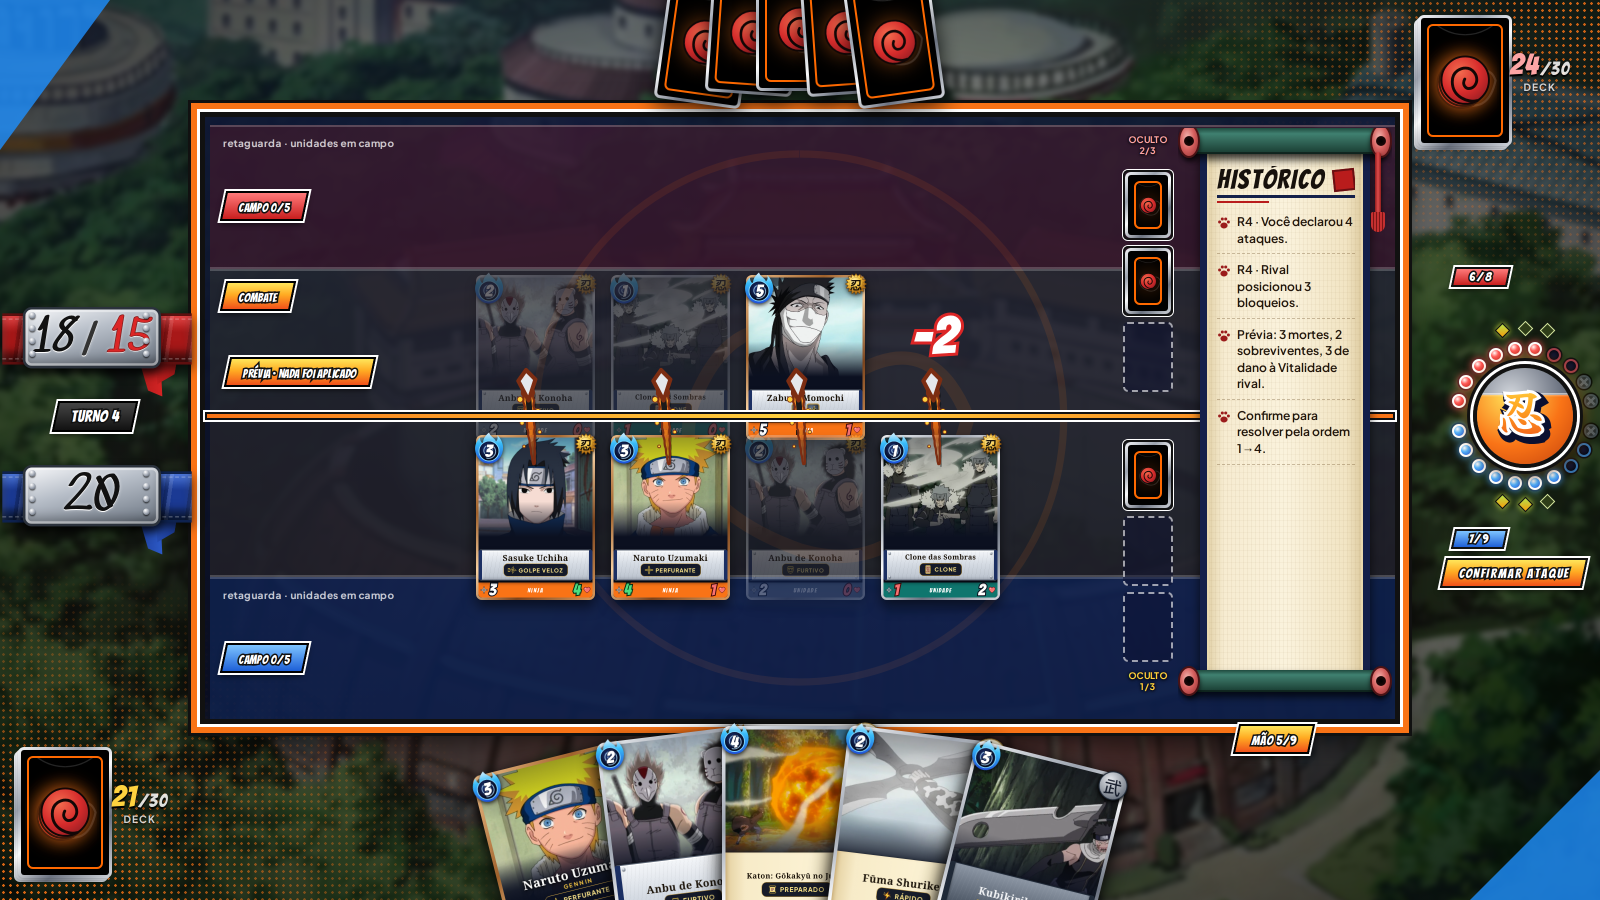
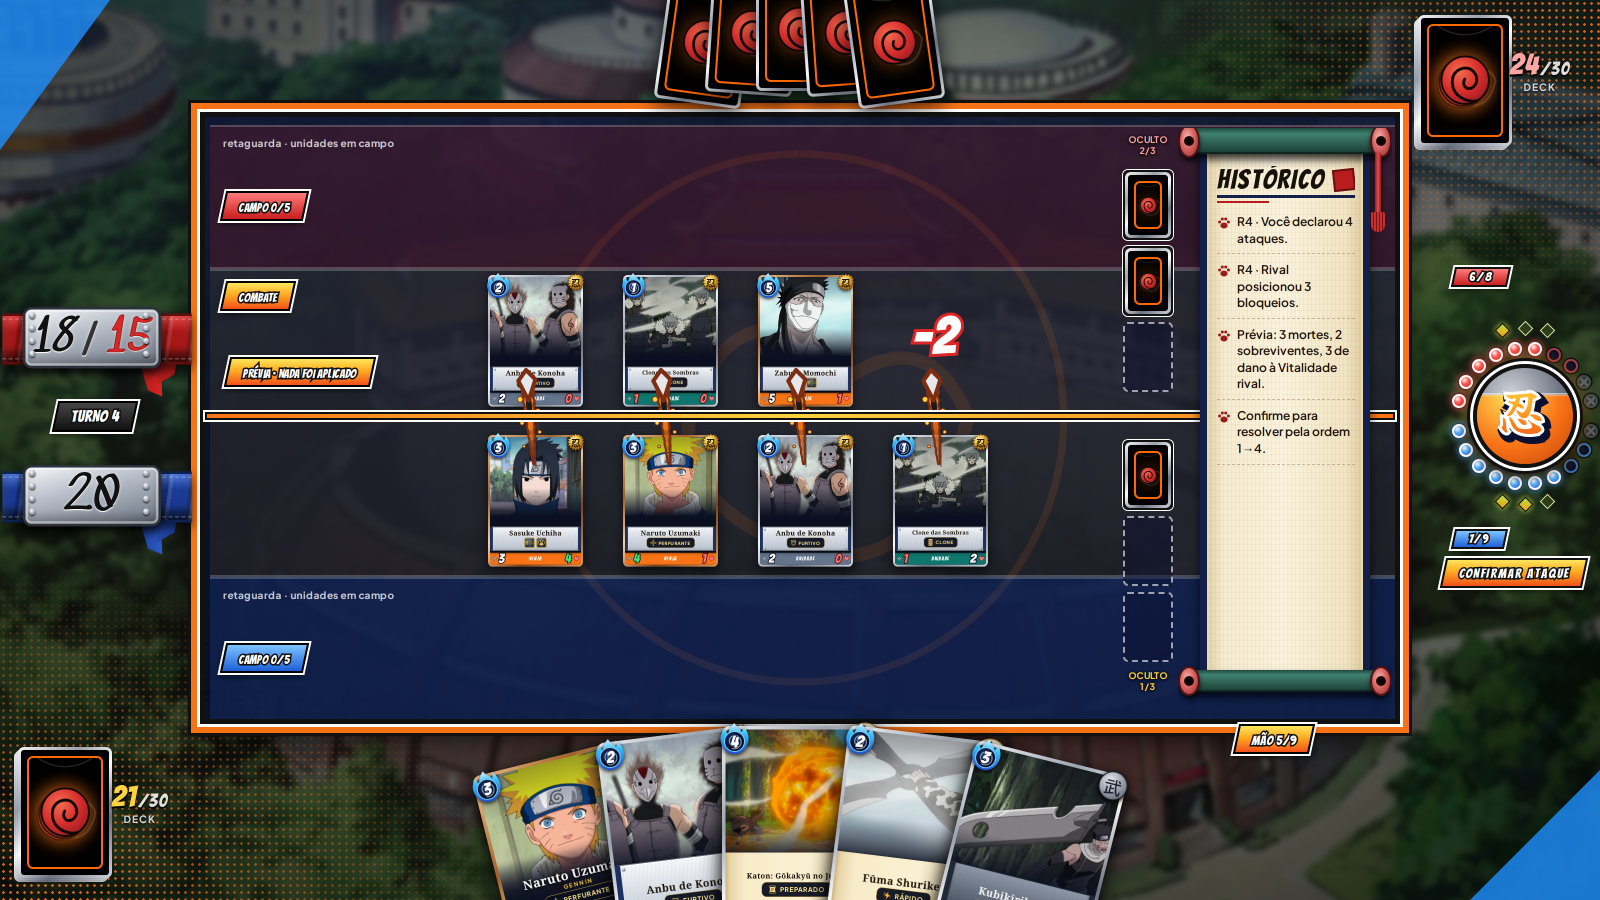
fix(B4): CardFace field idêntico ao aprovado (scale no slot)
Carta nativa 119×165 no slot 95×132 só com transform:scale uniforme;
sem dim/opacity/CSS de arena. Combate = mesmo CardFace; prévia só
nas plaquinhas. Compare vs galeria compare-final-campo.

Changed region(s): [[0.2812, 0.28, 0.625, 0.6844]]

diff --git a/src/ui/combat/ArenaFieldCard.tsx b/src/ui/combat/ArenaFieldCard.tsx
@@ -2,7 +2,8 @@ import type { CSSProperties } from 'react';
 import { CardBack } from '../../components/card/CardBack';
 import { CardFace } from '../../components/card/CardFace';
 import { compareStat, type StatColorState } from '../../components/card/theme';
-import { keywordsFromArenaLabels, resolveArenaCardDef } from './resolveArenaCard';
+import { FIELD_FACE_H, FIELD_FACE_W, SLOT_H, SLOT_SCALE, SLOT_W } from './grid';
+import { resolveArenaCardDef } from './resolveArenaCard';
 import type { ArenaCardRef } from './types';
 
 export interface ArenaFieldCardProps {
@@ -10,7 +11,7 @@ export interface ArenaFieldCardProps {
   onClick?: () => void;
   className?: string;
   style?: CSSProperties;
-  /** `field` = slot 119×165; `hand` = face de mão 156×219. */
+  /** `field` = CardFace aprovado (119×165) no slot; `hand` = mão. */
   size?: 'field' | 'hand';
 }
 
@@ -19,8 +20,9 @@ function toneToState(value: number, base: number): StatColorState {
 }
 
 /**
- * Carta da arena B4 via CardFace size="field" (PR #1) — sem FieldCard mock.
- * Prévia de combate: power/vitality + powerState/vitalityState nas plaquinhas 32px.
+ * CardFace size="field" idêntico ao aprovado (compare-final-campo).
+ * Slot B4 menor → só `transform: scale` uniforme (sem reflow/CSS de arena).
+ * Combate = mesma carta; só plaquinhas mudam na prévia.
  */
 export function ArenaFieldCard({
   card,
@@ -31,24 +33,80 @@ export function ArenaFieldCard({
 }: ArenaFieldCardProps) {
   const def = resolveArenaCardDef(card.cardId);
   const preview = card.preview;
-  const kwOverride = keywordsFromArenaLabels(card.keywords);
   const rankLevel =
     card.rank === 'jounnin' ? 3 : card.rank === 'chuunin' ? 2 : card.rank === 'gennin' ? 1 : undefined;
+  const kwOverride = card.keywordsOverride;
 
-  if (card.faceDown || !def) {
+  if (size === 'hand') {
+    if (card.faceDown || !def) {
+      return (
+        <button
+          type="button"
+          data-uid={card.uid}
+          data-card-id={card.cardId}
+          data-arena-card="hand"
+          className={`relative block overflow-visible border-0 bg-transparent p-0 ${className}`}
+          style={style}
+          onClick={onClick}
+          aria-label={card.faceDown ? 'Carta virada' : card.name}
+        >
+          <CardBack size="hand" sized />
+        </button>
+      );
+    }
     return (
       <button
         type="button"
         data-uid={card.uid}
-        data-card-id={card.cardId}
-        data-arena-card={size}
-        className={`relative block overflow-visible border-0 bg-transparent p-0 ${className}`}
+        data-card-id={def.id}
+        data-arena-card="hand"
+        className={`relative block overflow-visible border-0 bg-transparent p-0 text-left ${className}`}
         style={style}
         onClick={onClick}
-        aria-label={card.faceDown ? 'Carta virada' : card.name}
+        aria-label={def.name}
       >
-        <CardBack size={size} sized />
+        <CardFace
+          card={def}
+          size="hand"
+          power={preview?.power}
+          vitality={preview?.vitality}
+          powerState={preview ? toneToState(preview.power, preview.basePower) : undefined}
+          vitalityState={preview ? toneToState(preview.vitality, preview.baseVitality) : undefined}
+          rankLevel={rankLevel as 1 | 2 | 3 | undefined}
+          keywordsOverride={kwOverride}
+        />
       </button>
+    );
+  }
+
+  // —— field: footprint do slot + CardFace nativo 119×165 com scale uniforme ——
+  if (card.faceDown || !def) {
+    return (
+      <div
+        data-uid={card.uid}
+        data-card-id={card.cardId}
+        data-arena-card="field"
+        className={`relative overflow-visible ${className}`}
+        style={{ width: SLOT_W, height: SLOT_H, ...style }}
+      >
+        <div
+          className="origin-top-left"
+          style={{
+            width: FIELD_FACE_W,
+            height: FIELD_FACE_H,
+            transform: `scale(${SLOT_SCALE})`,
+            transformOrigin: 'top left',
+          }}
+        >
+          <CardBack size="field" sized />
+        </div>
+        <button
+          type="button"
+          className="absolute inset-0 z-10 cursor-pointer border-0 bg-transparent p-0"
+          onClick={onClick}
+          aria-label={card.faceDown ? 'Carta virada' : card.name}
+        />
+      </div>
     );
   }
 
@@ -60,31 +118,40 @@ export function ArenaFieldCard({
     preview != null ? toneToState(preview.vitality, preview.baseVitality) : undefined;
 
   return (
-    <button
-      type="button"
+    <div
       data-uid={card.uid}
       data-card-id={def.id}
-      data-arena-card={size}
-      className={`relative block overflow-visible border-0 bg-transparent p-0 text-left ${
-        card.dimmed || preview?.dying ? 'opacity-55' : ''
-      } ${card.selected ? 'ring-2 ring-amber-300' : ''} ${className}`}
-      style={style}
-      onClick={onClick}
-      aria-label={def.name}
+      data-arena-card="field"
+      data-preview-dying={preview?.dying ? '1' : undefined}
+      className={`relative overflow-visible ${className}`}
+      style={{ width: SLOT_W, height: SLOT_H, ...style }}
     >
-      <CardFace
-        card={def}
-        size={size}
-        effectiveCost={card.cost}
-        power={power}
-        vitality={vitality}
-        powerState={powerState}
-        vitalityState={vitalityState}
-        rankLevel={rankLevel as 1 | 2 | 3 | undefined}
-        selected={card.selected}
-        dimmed={card.dimmed || Boolean(preview?.dying)}
-        keywordsOverride={kwOverride}
+      <div
+        className="pointer-events-none origin-top-left"
+        style={{
+          width: FIELD_FACE_W,
+          height: FIELD_FACE_H,
+          transform: `scale(${SLOT_SCALE})`,
+          transformOrigin: 'top left',
+        }}
+      >
+        <CardFace
+          card={def}
+          size="field"
+          power={power}
+          vitality={vitality}
+          powerState={powerState}
+          vitalityState={vitalityState}
+          rankLevel={rankLevel as 1 | 2 | 3 | undefined}
+          keywordsOverride={kwOverride}
+        />
+      </div>
+      <button
+        type="button"
+        className="absolute inset-0 z-10 cursor-pointer border-0 bg-transparent p-0"
+        onClick={onClick}
+        aria-label={def.name}
       />
-    </button>
+    </div>
   );
 }

diff --git a/src/ui/combat/fixtures.ts b/src/ui/combat/fixtures.ts
@@ -65,59 +65,56 @@ export const ARENA_B4_FIXTURES: Record<ArenaB4DemoId, ArenaB4Model> = {
     myDeck: { remaining: 22, total: 30 },
     rivalHandCount: 5,
     myHand: HAND,
+    // Stats alinhados ao compare-final-campo (CardGallery size=field).
     rivalBackrow: [
       unit({
-        uid: 'rb1',
+        uid: 'rb-anbu',
         cardId: 'unit_anbu_konoha',
         artUrl: art('anbu'),
         name: 'Anbu de Konoha',
         owner: 'enemy',
-        column: 1,
-        cost: 2,
+        column: 0,
         band: 'UNIDADE',
-        keywords: [KW.furtivo],
         preview: pv(2, 2, 2, 2),
       }),
       unit({
-        uid: 'rb2',
+        uid: 'rb-zabuza',
         cardId: 'zabuza_momochi',
         artUrl: art('zabuza'),
         name: 'Zabuza Momochi',
         owner: 'enemy',
-        column: 3,
-        cost: 5,
+        column: 2,
         rank: 'gennin',
         band: 'NINJA',
-        keywords: [KW.furtivo, KW.golpe],
-        preview: pv(5, 5, 5, 5),
+        // Galeria: poder base 5, vida 3 (vermelho)
+        preview: pv(5, 3, 5, 5),
       }),
     ],
     myBackrow: [
       unit({
-        uid: 'mb1',
-        cardId: 'sasuke_uchiha',
-        artUrl: art('sasuke'),
-        name: 'Sasuke Uchiha',
-        owner: 'player',
-        column: 1,
-        cost: 3,
-        rank: 'gennin',
-        band: 'NINJA',
-        keywords: [KW.golpe],
-        preview: pv(3, 4, 3, 4),
-      }),
-      unit({
-        uid: 'mb2',
+        uid: 'mb-naruto',
         cardId: 'naruto_uzumaki',
         artUrl: art('naruto'),
         name: 'Naruto Uzumaki',
         owner: 'player',
-        column: 2,
-        cost: 3,
+        column: 1,
         rank: 'gennin',
         band: 'NINJA',
-        keywords: [KW.perfurante],
-        preview: pv(3, 5, 3, 5),
+        // Galeria: poder 4 (verde), vida 3
+        preview: pv(4, 3, 3, 3),
+      }),
+      unit({
+        uid: 'mb-sasuke',
+        cardId: 'sasuke_uchiha',
+        artUrl: art('sasuke'),
+        name: 'Sasuke Uchiha',
+        owner: 'player',
+        column: 3,
+        rank: 'gennin',
+        band: 'NINJA',
+        // Galeria: 1 KW pílula GOLPE VELOZ; vida 4 (verde vs base 2)
+        keywordsOverride: ['Ataque Rápido'],
+        preview: pv(3, 4, 3, 2),
       }),
     ],
     rivalCombat: [],

diff --git a/src/ui/combat/types.ts b/src/ui/combat/types.ts
@@ -1,3 +1,5 @@
+import type { Keyword } from '../../types/game';
+
 /** Tipos de apresentação da Arena B4 (Part 3) — sem inventar regras; só layout/prévia. */
 
 export type OwnerSide = 'player' | 'enemy';
@@ -35,16 +37,19 @@ export interface ArenaCardRef {
   /** Faixa de tipo (NINJA / UNIDADE). */
   band?: FieldBand;
   /**
-   * Palavras-chave da carta (ícones v7o).
-   * 1 → pílula ícone+nome; 2+ → só ícones.
+   * Palavras-chave de apresentação (legado / HUD).
+   * CardFace usa `keywordsOverride` (Keyword[]) ou o CardDef.
    */
   keywords?: Array<{ id: string | null; label: string }>;
+  /** Override direto para CardFace (ex.: demo Sasuke = 1 KW como no compare-final-campo). */
+  keywordsOverride?: Keyword[];
   /** Coluna 0–4; omitido = preenchimento sequencial. */
   column?: number;
   preview?: FieldCardPreview;
   /** Face down (verso). */
   faceDown?: boolean;
   selected?: boolean;
+  /** @deprecated Ignorado — combate não escurece a carta. */
   dimmed?: boolean;
 }
 

diff --git a/tests/arena-b4-grid.test.ts b/tests/arena-b4-grid.test.ts
@@ -21,8 +21,8 @@ import { ARENA_B4_FIXTURES } from '../src/ui/combat/fixtures';
 assert.equal(SCREEN_W, 1600);
 assert.equal(SCREEN_H, 900);
 assert.deepEqual([...COL_CX], [530, 665, 800, 935, 1070]);
-assert.equal(SLOT_W, 119);
-assert.equal(SLOT_H, 165);
+assert.equal(SLOT_W, 95);
+assert.equal(SLOT_H, 132);
 assert.deepEqual(BOARD, { x: 200, y: 112, w: 1200, h: 612 });
 assert.equal(LINE_Y, 416);
 assert.equal(ZONES.historico.w, ZONES.infoLeft.w);
@@ -34,7 +34,7 @@ assert.equal(ZONES.rivalHand.w, 760);
 assert.equal(MAX_UNITS_PER_SIDE, 5);
 assert.equal(MAX_HAND, 9);
 assert.equal(MAX_OCULTO, 3);
-assert.equal(colX(2), 800 - Math.floor(119 / 2));
+assert.equal(colX(2), 800 - Math.floor(95 / 2));
 
 assert.equal(stkStep(1), 0);
 assert.ok(stkStep(9) <= 70);

diff --git a/src/ui/combat/grid.ts b/src/ui/combat/grid.ts
@@ -6,10 +6,16 @@
 export const SCREEN_W = 1600;
 export const SCREEN_H = 900;
 
-/** Cartas de campo = CardFace size="field" (238×330 @ 0.5 → 119×165). */
-export const SLOT_ZOOM = 0.5;
-export const SLOT_W = 119;
-export const SLOT_H = 165;
+/**
+ * CardFace size="field" nativo (aprovado): 119×165.
+ * Slot B4 do mock: 95×132 — a carta entra só com `transform: scale` uniforme.
+ */
+export const FIELD_FACE_W = 119;
+export const FIELD_FACE_H = 165;
+export const SLOT_W = 95;
+export const SLOT_H = 132;
+export const SLOT_SCALE = SLOT_W / FIELD_FACE_W;
+export const SLOT_ZOOM = SLOT_SCALE * 0.5; // vs card6 238×330
 export const COL_PITCH = 135;
 
 /** Centros das 5 colunas: 530, 665, 800, 935, 1070. */

diff --git a/src/ui/combat/mapBattleToArenaB4.ts b/src/ui/combat/mapBattleToArenaB4.ts
@@ -70,8 +70,9 @@ function toCardRef(
     cost: card && 'cost' in card ? (card.cost as number) : undefined,
     column,
     keywords: fieldKeywords(src),
+    // Keywords vivas do motor → CardFace (1 pílula / 2+ ícones), sem dim.
+    keywordsOverride: [...src.keywords],
     preview,
-    dimmed: dying,
   };
 }
 
